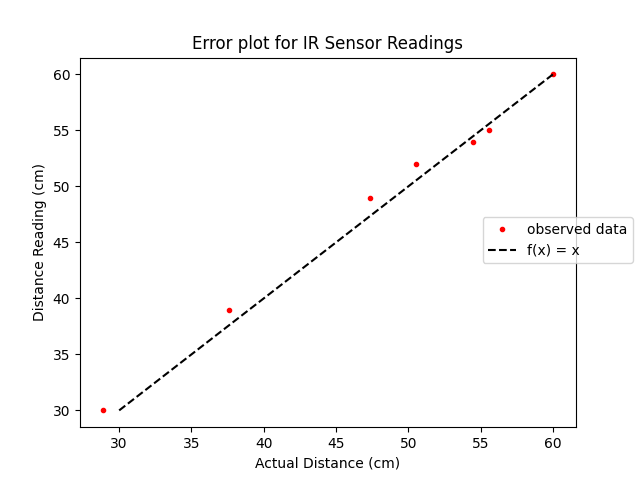
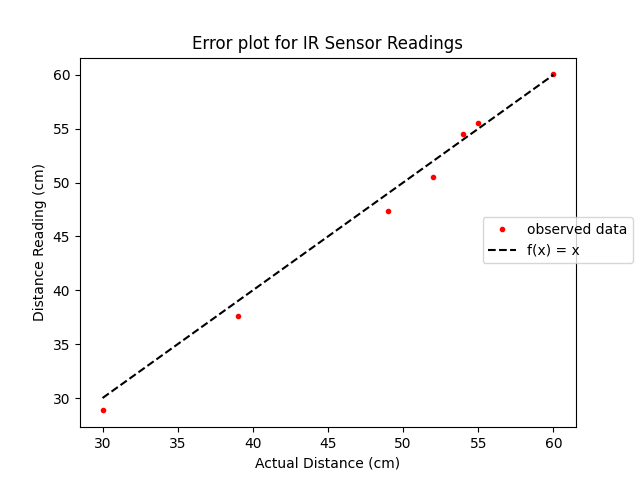
Fix IR error plot

diff --git a/ir_error.py b/ir_error.py
@@ -8,7 +8,7 @@ ir_func = lambda x: IR_ERROR/x
 ir_data = pd.read_csv("ir_error.csv")
 fig, ax = plt.subplots()
 
-ax.plot(ir_data["actual"], ir_data["expected"],
+ax.plot(ir_data["expected"], ir_data["actual"],
 	"r.", label="observed data")
 
 input_values = np.linspace(30,60,300)
